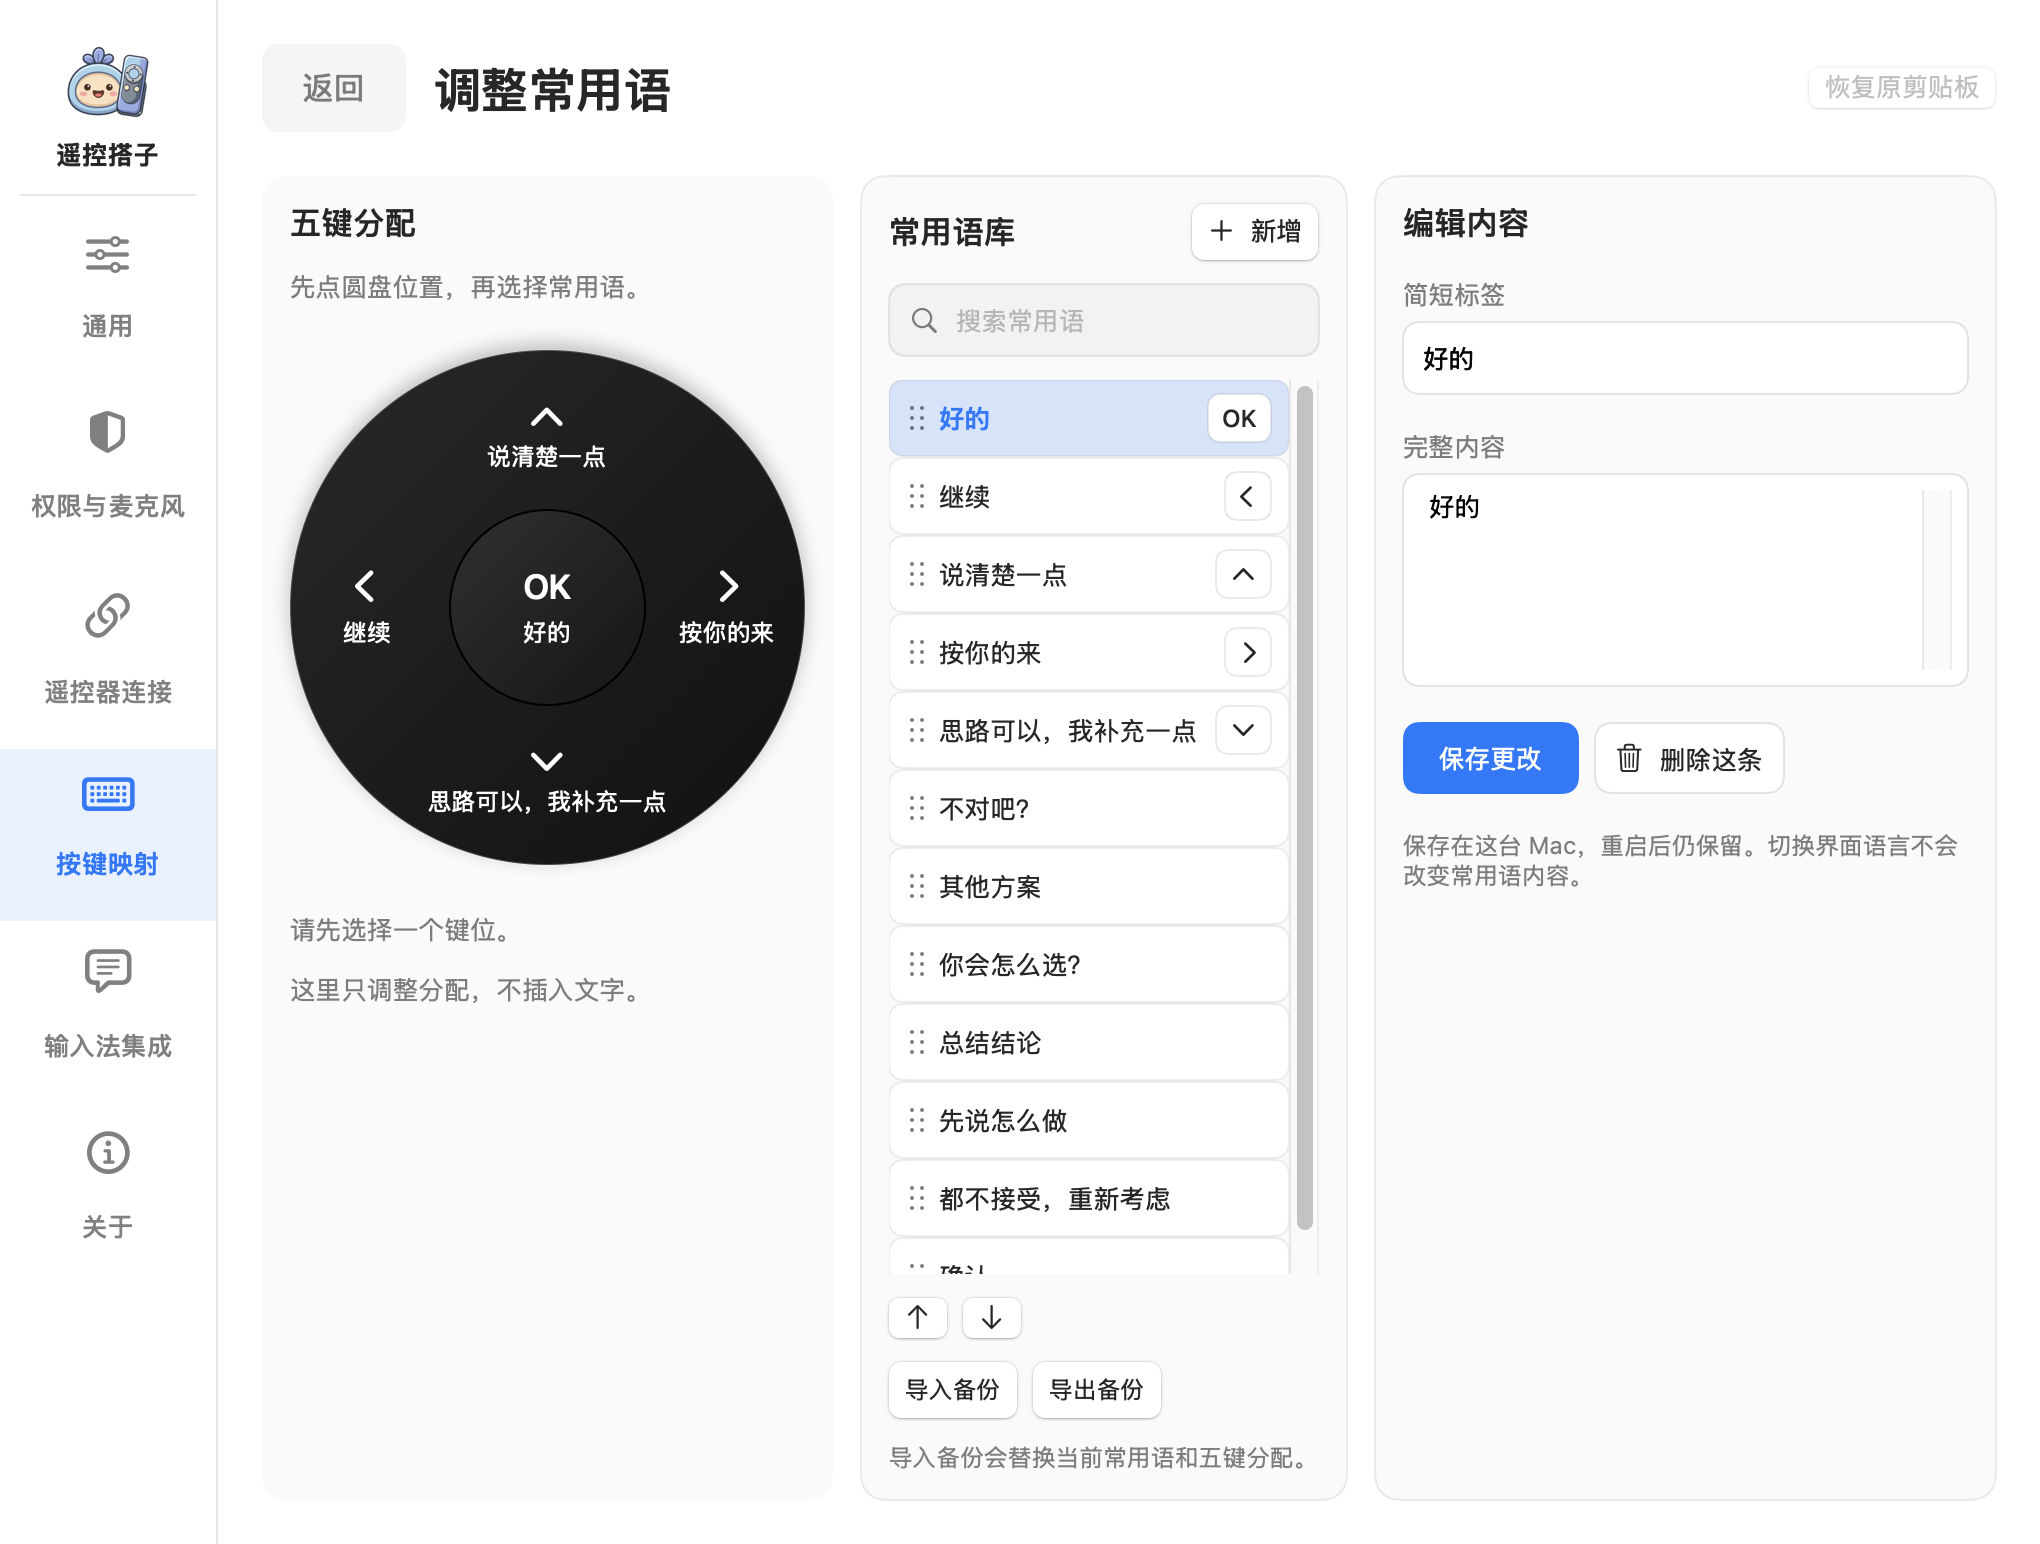
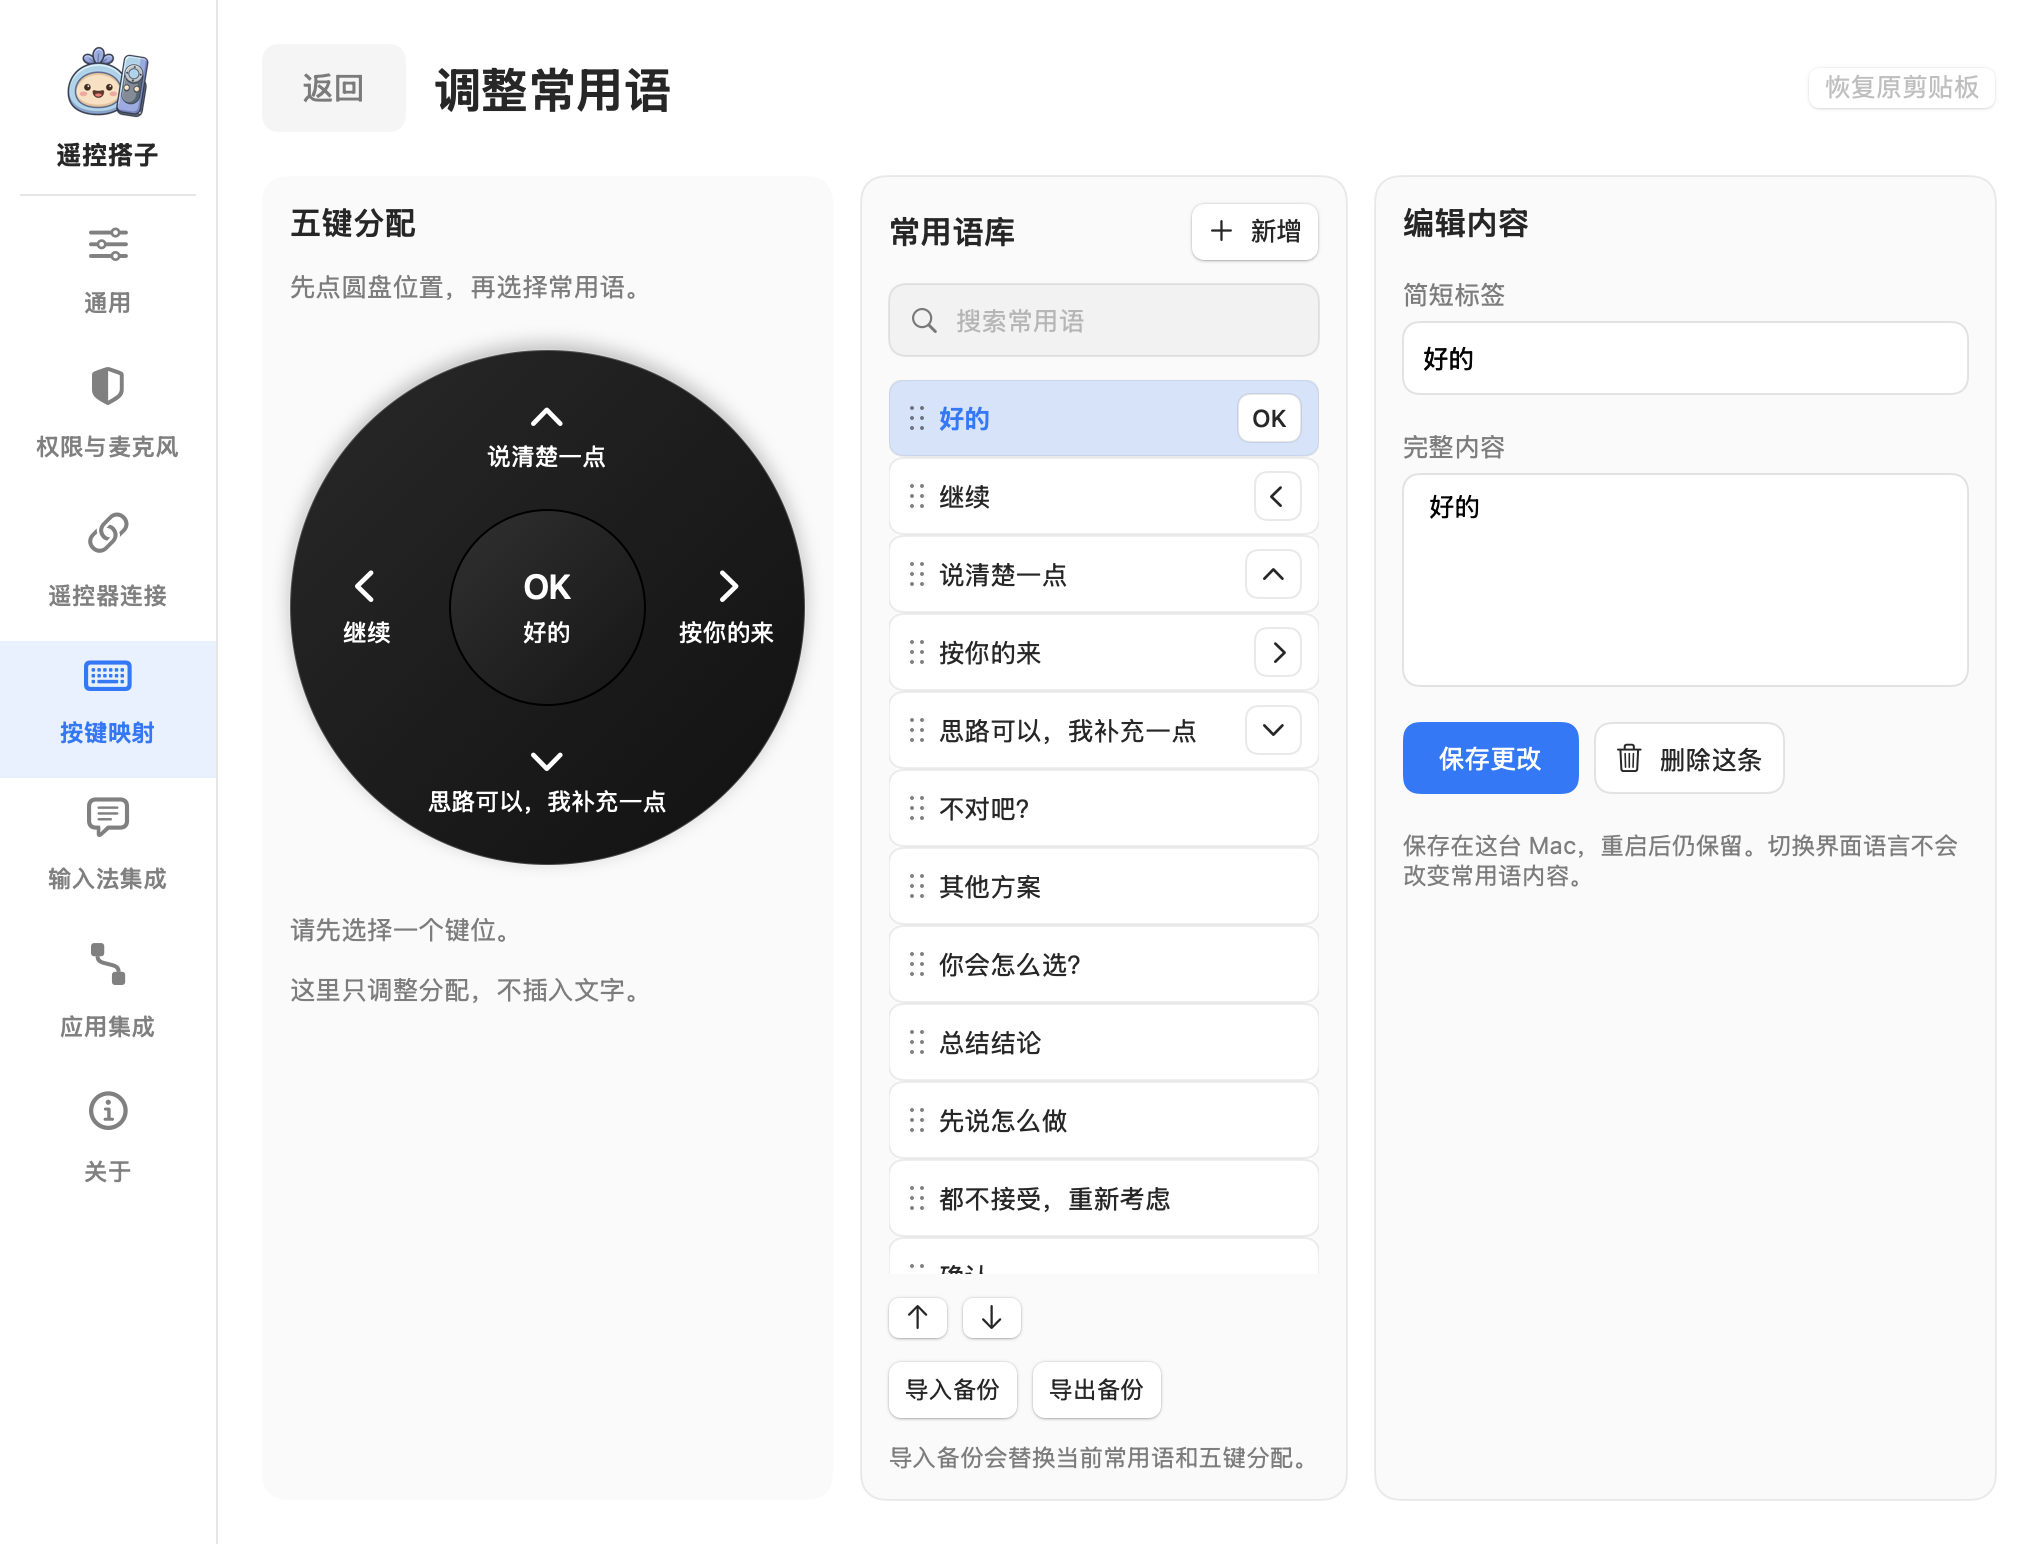
docs: synchronize application integration guides and gallery

Changed region(s): [[0.0, 0.1554, 0.0926, 0.6839], [0.5868, 0.2487, 0.6485, 0.8083], [0.0309, 0.715, 0.0618, 0.8083]]

diff --git a/pages/demo.js b/pages/demo.js
@@ -83,6 +83,14 @@ button.addEventListener('blur', stop);
         desc: '查看当前输入工具和麦克风状态，打开对应的设置向导。也可调整语音触发键及 Fn 点按设置。'
       },
       {
+        title: '应用集成',
+        badge: '可选自动聚焦',
+        windowTitle: '应用集成 · Remote Buddy',
+        src: 'assets/screenshots/application-integration-zh.png',
+        alt: '应用集成界面：微信、Antigravity 和 ChatGPT 的开关、辅助功能状态与 Fn 行为说明',
+        desc: '分别或批量开启集成，在语音触发前尝试聚焦输入框。聚焦失败仍可继续语音，必要时用 Command+V 粘贴结果。'
+      },
+      {
         title: '关于搭子',
         badge: '版本与更新',
         windowTitle: '关于搭子 · Remote Buddy',
@@ -200,6 +208,14 @@ button.addEventListener('blur', stop);
         src: 'assets/screenshots/integration-en.png',
         alt: 'Remote Buddy Voice Tools interface: setup guides for WeType, Doubao, Voice Buddy, NetEase Bageshuo, Typeless, macOS Dictation, and other tools',
         desc: 'Check the selected input tool and microphone status, then open its setup guide. Adjust the voice trigger key and Fn tap settings here too.'
+      },
+      {
+        title: 'App Integrations',
+        badge: 'Optional Focus',
+        windowTitle: 'App Integrations · Remote Buddy',
+        src: 'assets/screenshots/application-integration-en.png',
+        alt: 'App integrations: switches for WeChat, Antigravity, and ChatGPT, Accessibility status, and Fn behavior',
+        desc: 'Enable individual or all integrations to attempt input focus before voice starts. Voice continues if focus fails; use Command+V to paste the result if needed.'
       },
       {
         title: 'About Remote Buddy',
@@ -385,6 +401,8 @@ button.addEventListener('blur', stop);
   if (nextBtn) nextBtn.addEventListener('click', () => goToIndex(currentIndex + 1));
 
   categoryBtns.forEach(btn => {
+    const label = btn.textContent.replace(/\s*\(\d+\)\s*$/, '');
+    btn.textContent = `${label} (${(galleryData[btn.dataset.track] || []).length})`;
     btn.addEventListener('click', () => {
       categoryBtns.forEach(b => b.classList.remove('is-active'));
       btn.classList.add('is-active');

diff --git a/pages/index.en.html b/pages/index.en.html
@@ -35,7 +35,7 @@
   <div class="interface-heading">
     <div><p class="eyebrow">APP INTERFACE</p><h2 class="section-title" id="interface-title">Connect devices, map buttons, and set up voice input.</h2><p class="lead-sub">Check device status, customize buttons, edit common phrases, and follow the guide to set up voice input.</p></div>
     <div class="gallery-category-switch" role="tablist" aria-label="Interface category">
-      <button class="category-btn is-active" type="button" role="tab" aria-selected="true" data-track="settings">App Settings (6)</button>
+      <button class="category-btn is-active" type="button" role="tab" aria-selected="true" data-track="settings">App Settings (8)</button>
       <button class="category-btn" type="button" role="tab" aria-selected="false" data-track="wizard">Setup Guide (7)</button>
     </div>
   </div>

diff --git a/pages/index.html b/pages/index.html
@@ -35,7 +35,7 @@
   <div class="interface-heading">
     <div><p class="eyebrow">macOS 原生界面</p><h2 class="section-title" id="interface-title">连接设备，设置按键，配置输入工具。</h2><p class="lead-sub">查看设备状态、自定义按键、编辑常用语，再按向导完成语音输入设置。</p></div>
     <div class="gallery-category-switch" role="tablist" aria-label="界面展示分类">
-      <button class="category-btn is-active" type="button" role="tab" aria-selected="true" data-track="settings">应用设置 (6)</button>
+      <button class="category-btn is-active" type="button" role="tab" aria-selected="true" data-track="settings">应用设置 (8)</button>
       <button class="category-btn" type="button" role="tab" aria-selected="false" data-track="wizard">设置向导 (7)</button>
     </div>
   </div>

diff --git a/scripts/generate-website-screenshots.py b/scripts/generate-website-screenshots.py
@@ -17,6 +17,7 @@ SETTINGS_SECTIONS = [
     ("mapping", "mapping-1020x772.png", "mapping"),
     ("commonPhrases", "commonPhrases-1020x772.png", "phrases"),
     ("integration", "integration-1020x772.png", "integration"),
+    ("applicationIntegration", "applicationIntegration-1020x772.png", "application-integration"),
     ("about", "about-1020x772.png", "about"),
 ]
 

diff --git a/docs/interface.md b/docs/interface.md
@@ -7,12 +7,12 @@
 3. **遥控器连接**：右上角“添加新设备”；每台遥控器单独分组显示名称、图片、连接状态和增益，增益独立保存。
 4. **按键映射**：顶部选择已记录设备，配置普通硬件按键动作、快捷键和常用语；语音设置入口跳转到输入法集成。
 5. **输入法集成**：当前输入工具、语音快捷键和音频状态；微信输入法、豆包输入法、[Voice Buddy（语音搭子）](https://myvoicebuddy.com/)、网易叭哥说、Typeless、macOS 听写与其他工具的配置向导入口。概览显示所选工具名称，不代表已通过语音输入验证。
-6. **应用集成**：位于“关于”前，列出 微信、Antigravity 和 ChatGPT；默认全部关闭，可逐项切换，也可全部开启或全部关闭。每项说明对应的输入位置。只有按下语音键时，才检查当前前台应用并尝试聚焦到当前窗口的对话输入框；聚焦查询及确认结束后才切换所需输入法并发送语音触发键，普通应用切换不会触发。需要辅助功能权限，聚焦是可选环节，找不到明确目标或无法确认聚焦时会显示提示并继续语音输入；若输入工具将识别结果留在剪贴板，可用 Command+V 手动粘贴。应用切换、语音结束、系统睡眠或关闭集成会取消待执行的聚焦，不会追随到其他窗口或在松开后补发语音触发键。可选聚焦最多等待 3 秒，与目标准备共用 4 秒等待上限（不会把两段等待相加），音频只在内存中限量暂存，取消即丢弃。开启任意应用集成时，Fn 按住模式也接管原生 Fn 以保证聚焦先于触发；Fn 点按模式在既有音频暂存流程中等待聚焦。Antigravity 针对 Agent 聊天输入框，微信需先打开会话。
+6. **应用集成**：位于“关于”前，列出微信、Antigravity 和 ChatGPT；默认全部关闭，可逐项切换，也可全部开启或全部关闭。每项说明对应的输入位置。只有按下语音键时，才检查当前前台应用并尝试聚焦到当前窗口的对话输入框；聚焦查询及确认结束后才切换所需输入法并发送语音触发键，普通应用切换不会触发。需要辅助功能权限，聚焦是可选环节，找不到明确目标或无法确认聚焦时会显示提示并继续语音输入；若输入工具将识别结果留在剪贴板，可用 Command+V 手动粘贴。应用切换、语音结束、系统睡眠或关闭集成会取消待执行的聚焦，不会追随到其他窗口或在松开后补发语音触发键。可选聚焦最多等待 3 秒，与目标准备共用 4 秒等待上限（不会把两段等待相加），音频只在内存中限量暂存，取消即丢弃。开启任意应用集成时，Fn 按住模式也接管原生 Fn 以保证聚焦先于触发；Fn 点按模式在既有音频暂存流程中等待聚焦。Antigravity 针对 Agent 聊天输入框，微信需先打开会话。
 7. **关于**：保留应用图标和简介；版本信息、软件更新、诊断与日志、项目链接分别分组。常用语从按键映射页进入。
 
 侧栏使用较紧凑的上下间距，保留每项图标与文字；小窗口仍可滚动。
 
-应用集成通过公开辅助功能接口读取控件标签与位置并设置焦点，不读取消息正文、聊天记录或私有配置，也不自动发送消息。已实机查看微信的 `chat_input_field` 和 Antigravity 的 `Message input` 控件；微信只匹配该明确标识，不按窗口坐标猜测。Antigravity 的网页输入框若不接受直接设置焦点，会先检查点击位置实际命中该输入控件或其子控件，确认未被遮挡后才在内部点击一次，并确认焦点已进入该控件后才继续；不会按整个窗口的比例猜测点击位置。ChatGPT 按截图中的 `Work with ChatGPT` 标签适配，同时识别 `com.openai.chat` 和本机桌面版本沿用的 `com.openai.codex` 标识；ChatGPT 聚焦与回填已有用户实测反馈；当前检查工具不允许读取其控件树，本次启动时序及 Antigravity 点击兜底仍需新版实机验收。
+应用集成只读取输入控件的类型、标识、标签和位置等元数据，不读取消息正文、聊天记录或私有配置，也不自动输入或发送消息。目标控件不明确、被遮挡或目标应用不公开可用控件时，自动聚焦可能失败；应用会提示结果并继续语音输入，必要时可用 Command+V 粘贴。Antigravity 集成针对 Agent 桌面应用，不包含单独的 Antigravity IDE。
 
 输入法集成通过设置向导配置并验证，不读取其他应用的私有配置，也不把检测到安装当作兼容验证。Voice Buddy 有独立入口与介绍卡片，引导配置 `Fn / 🌐` 与 `Remote Buddy Mic` 并检查安装状态。重新选择输入工具不会清除遥控器档案、增益或普通按键映射。
 

diff --git a/README.en.md b/README.en.md
@@ -19,9 +19,12 @@ Supports **macOS 14 and later**, on Apple Silicon and Intel Macs. Windows suppor
 - Use a remote's microphone for voice input, without reaching for the keyboard.
 - Map Xiaomi remote control buttons to keyboard shortcuts, application actions, or common phrases, with category filtering, independent single/double/long-press actions, and individual trigger reset. Phrase content can mix languages and stays the same when the interface language changes.
 - Configure hold-to-talk or press-to-start/stop behavior for your input tool.
+- Optional app integrations focus the current conversation input before voice input starts in WeChat, Antigravity, and ChatGPT, with individual and bulk switches.
 - Set up permissions, the microphone driver, device connection, and input integration in one guide.
 
 Remote Buddy does not collect usage statistics, save recordings or transcript history, or upload logs. Recognition and text cleanup are handled by your selected input tool, with that tool's own network and privacy settings.
+
+Enabling any app integration makes Remote Buddy send the Fn hold trigger for all foreground apps, requiring Accessibility permission so focus can finish first. Only enabled foreground apps have their focus adjusted. Focusing is optional: if it fails, voice input continues and you can use Command+V to paste the result if needed. Disable all integrations to restore the original trigger behavior. Antigravity integration targets the Agent desktop app, not the separate Antigravity IDE.
 
 ## How does it work?
 
